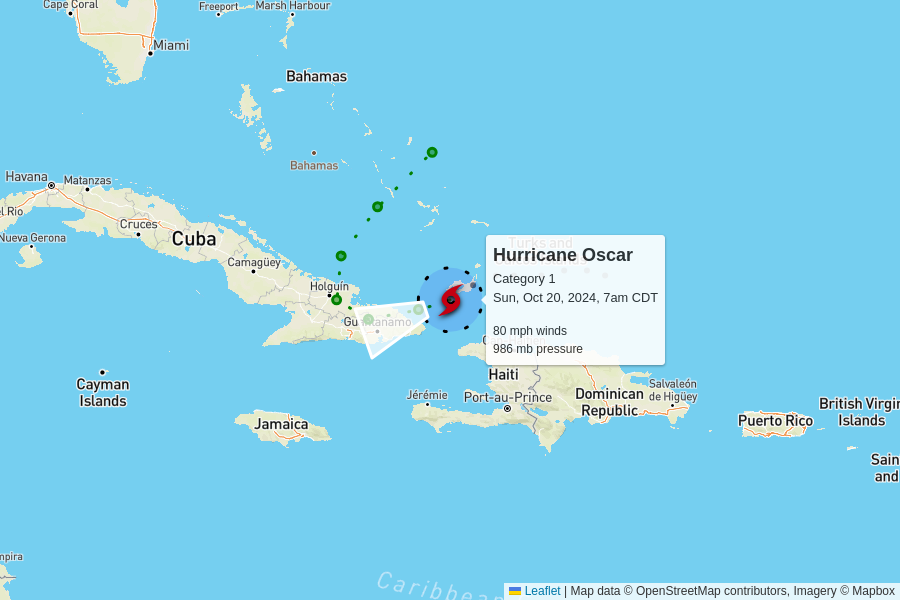
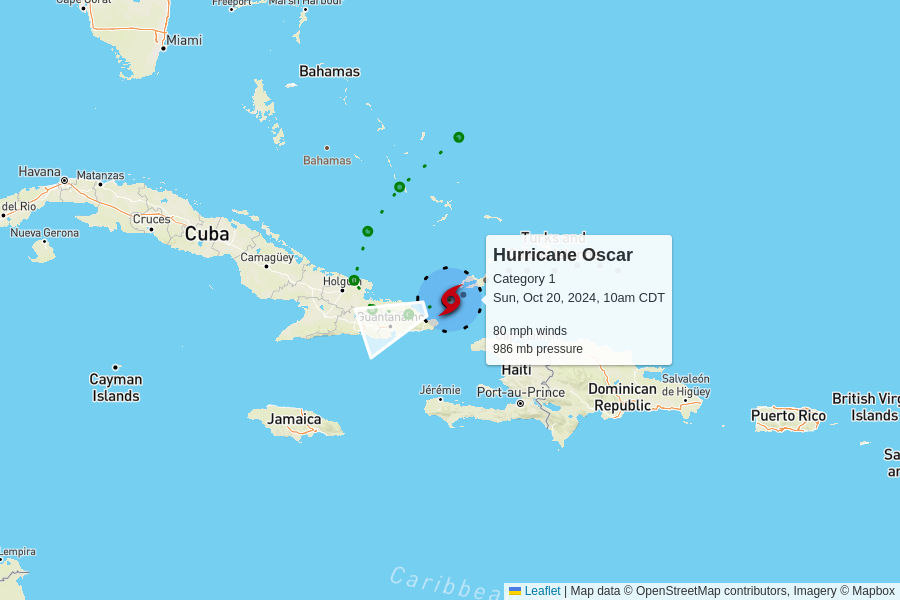
automatic update

diff --git a/docs/index.html b/docs/index.html
@@ -96,15 +96,35 @@
     </p>
 
     
-    <h2>2 active storms</h2>
-    <img src="active.png">
 
     <table>
+      <tr>
+        <td colspan="6" class="storm " style="cursor:pointer;" onClick="toggle('AL152024')">
+          <h2>🏁 Nadine
+          </h2>
+        </td>
+      </tr>
+      
+      <tr id="storm_AL152024" style="display:none;">
+        <td class="spacer">
+        <td colspan="5">
+          <figure>
+            <img src="AL152024.png">
+            <figcaption>
+              Map data &copy; <a href="https://www.openstreetmap.org/copyright">OpenStreetMap</a> contributors,
+              Imagery &copy; <a href="https://www.mapbox.com/">Mapbox</a> |
+              <a href="https://www.mapbox.com/map-feedback/" target="_blank">Improve this map</a>
+            </figcaption>
+          </figure>
+        </td>
+      </tr>
+      
+
       <tr>
         <td colspan="6" class="storm category-1" >
           <h2>
             Hurricane Oscar - Category 1
-            <p class="updated">last updated <span data-time>2024-10-20T12:00:00.000Z</span></p>
+            <p class="updated">last updated <span data-time>2024-10-20T15:00:00.000Z</span></p>
           </h2>
         </td>
       </tr>
@@ -120,9 +140,9 @@
       <tr>
         <td class="spacer"></td>
         <td>80 mph<br>0 mph since last update</td>
-        <td>986 mb<br>-2 mb since last update</td>
+        <td>986 mb<br>0 mb since last update</td>
         <td>
-          12 mph to the west-southwest
+          7 mph to the west-southwest
           <br/>
           <span style="display: inline-block; font-size: 1.5em; transform: rotate(250deg);">↑</span>
         </td>
@@ -134,50 +154,6 @@
         <td colspan="5">
           <figure>
             <img src="AL162024.png">
-            <figcaption>
-              Map data &copy; <a href="https://www.openstreetmap.org/copyright">OpenStreetMap</a> contributors,
-              Imagery &copy; <a href="https://www.mapbox.com/">Mapbox</a> |
-              <a href="https://www.mapbox.com/map-feedback/" target="_blank">Improve this map</a>
-            </figcaption>
-          </figure>
-        </td>
-      </tr>
-      
-
-      <tr>
-        <td colspan="6" class="storm category-0" >
-          <h2>
-            Tropical Depression Nadine
-            <p class="updated">last updated <span data-time>2024-10-20T09:00:00.000Z</span></p>
-          </h2>
-        </td>
-      </tr>
-      
-      <tr>
-        <th class="spacer"></th>
-        <th>wind speed</th>
-        <th>central pressure</th>
-        <th>movement</th>
-        <th>data (CSV)</th>
-        <th>National Hurricane Center</th>
-      </tr>
-      <tr>
-        <td class="spacer"></td>
-        <td>30 mph<br>-5 mph since last update</td>
-        <td>1006 mb<br>0 mb since last update</td>
-        <td>
-          14 mph to the west-southwest
-          <br/>
-          <span style="display: inline-block; font-size: 1.5em; transform: rotate(255deg);">↑</span>
-        </td>
-        <td><a href="https://raw.githubusercontent.com/mgwalker/atlantic-hurricanes/main/data/csv/AL152024.csv">AL152024.csv</a></td>
-        <td><a href="https://www.nhc.noaa.gov/archive/2024/NADINE.shtml?">NHC advisories</a></td>
-      </tr>
-      <tr id="storm_AL152024" >
-        <td class="spacer">
-        <td colspan="5">
-          <figure>
-            <img src="AL152024.png">
             <figcaption>
               Map data &copy; <a href="https://www.openstreetmap.org/copyright">OpenStreetMap</a> contributors,
               Imagery &copy; <a href="https://www.mapbox.com/">Mapbox</a> |
